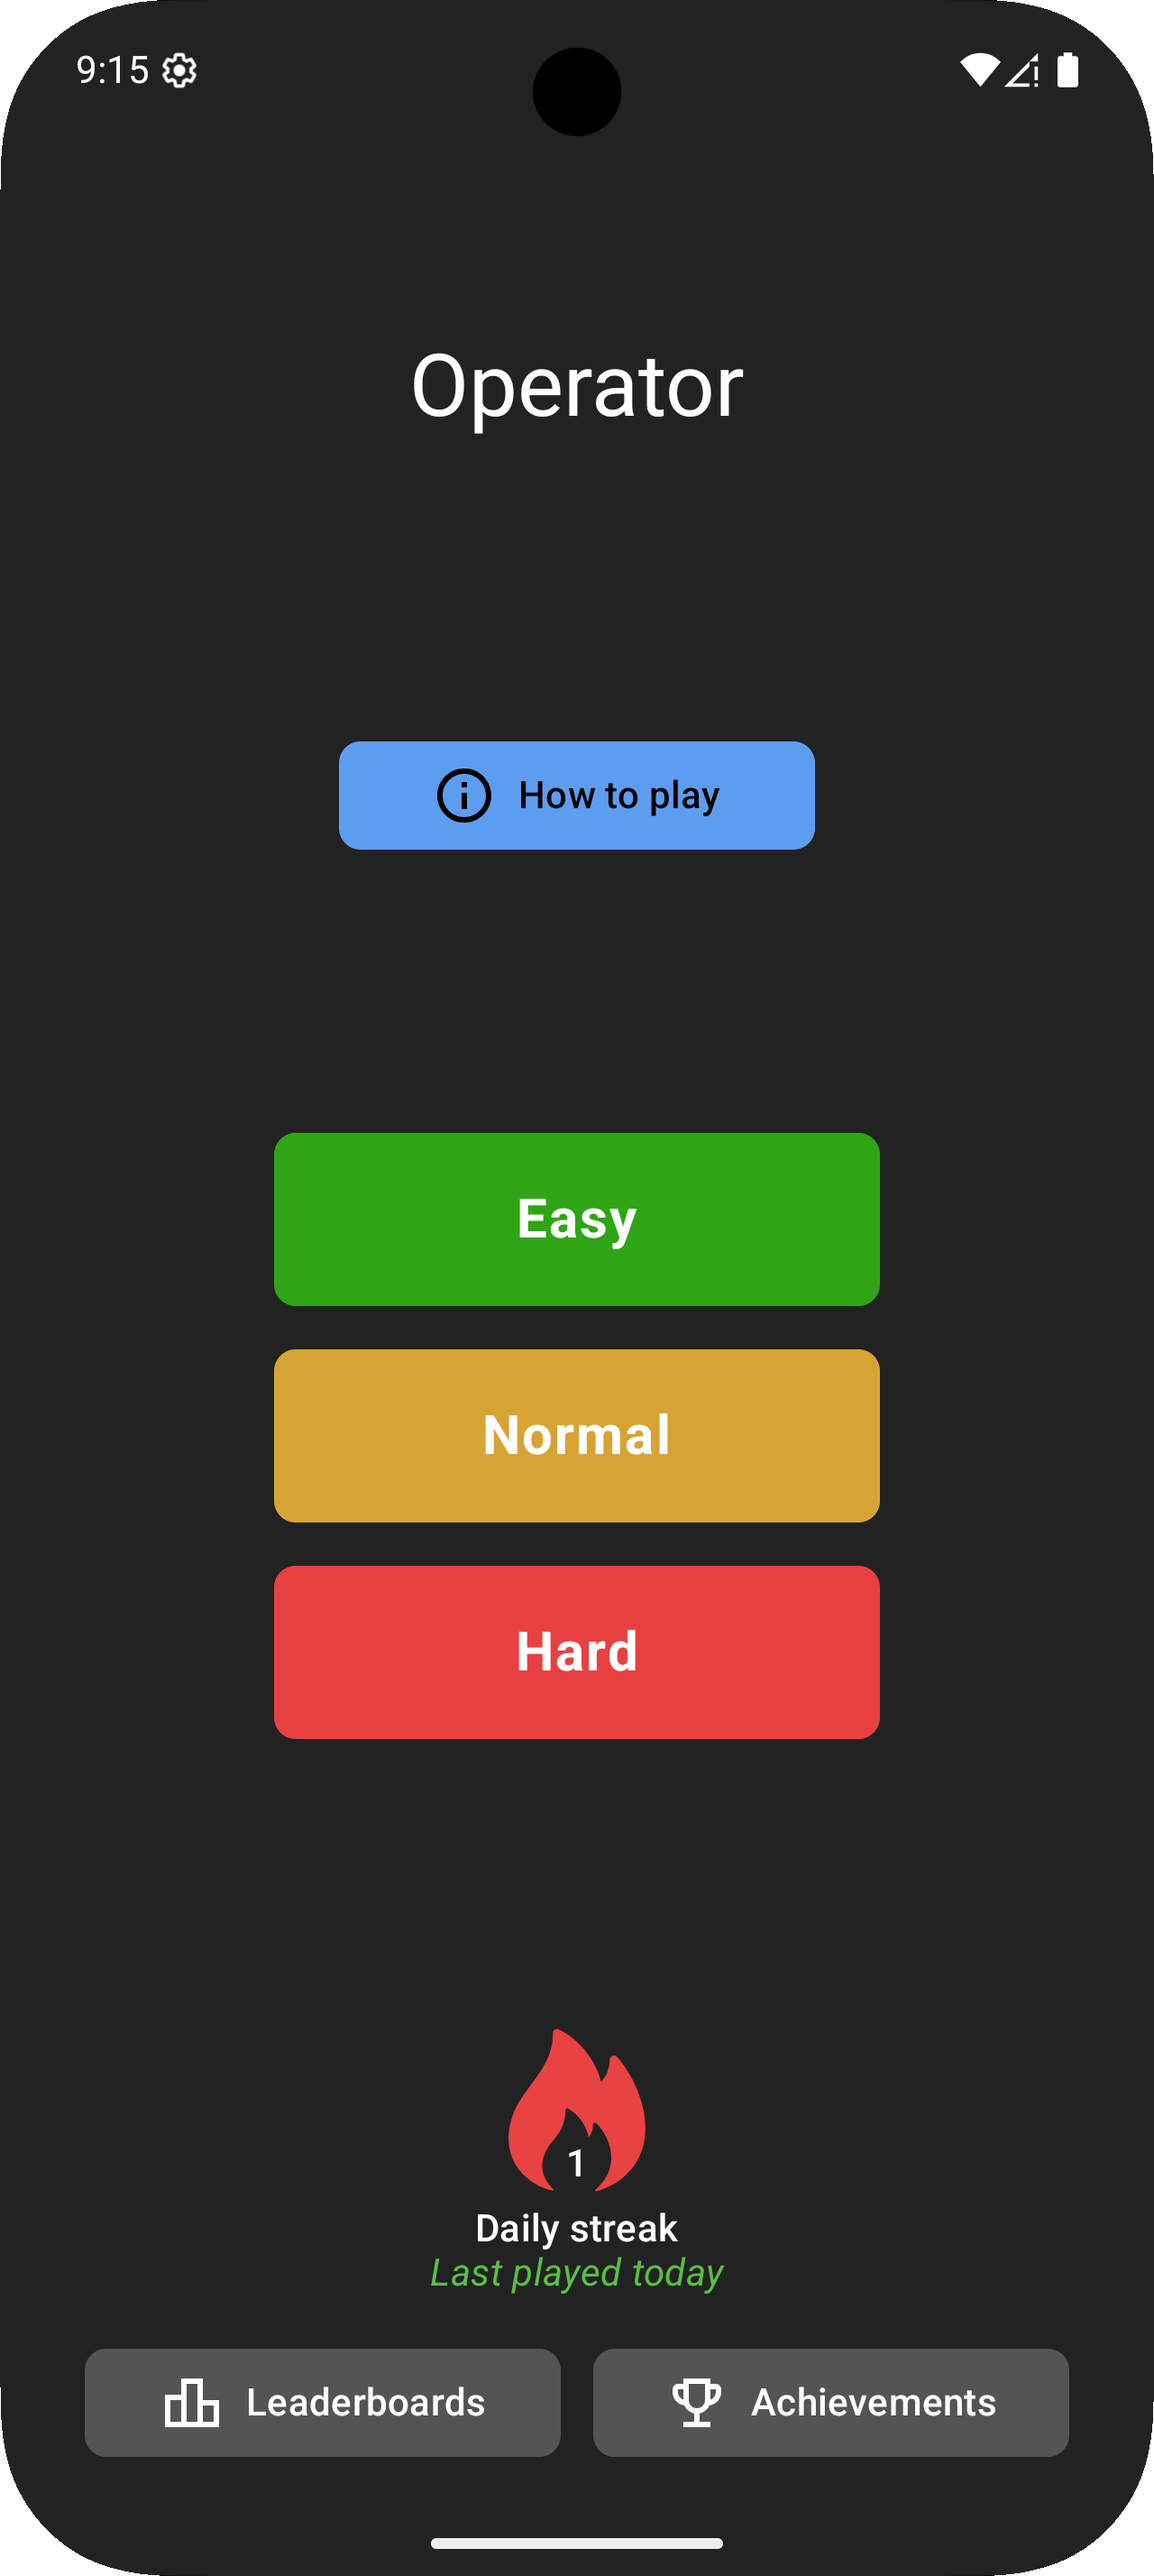
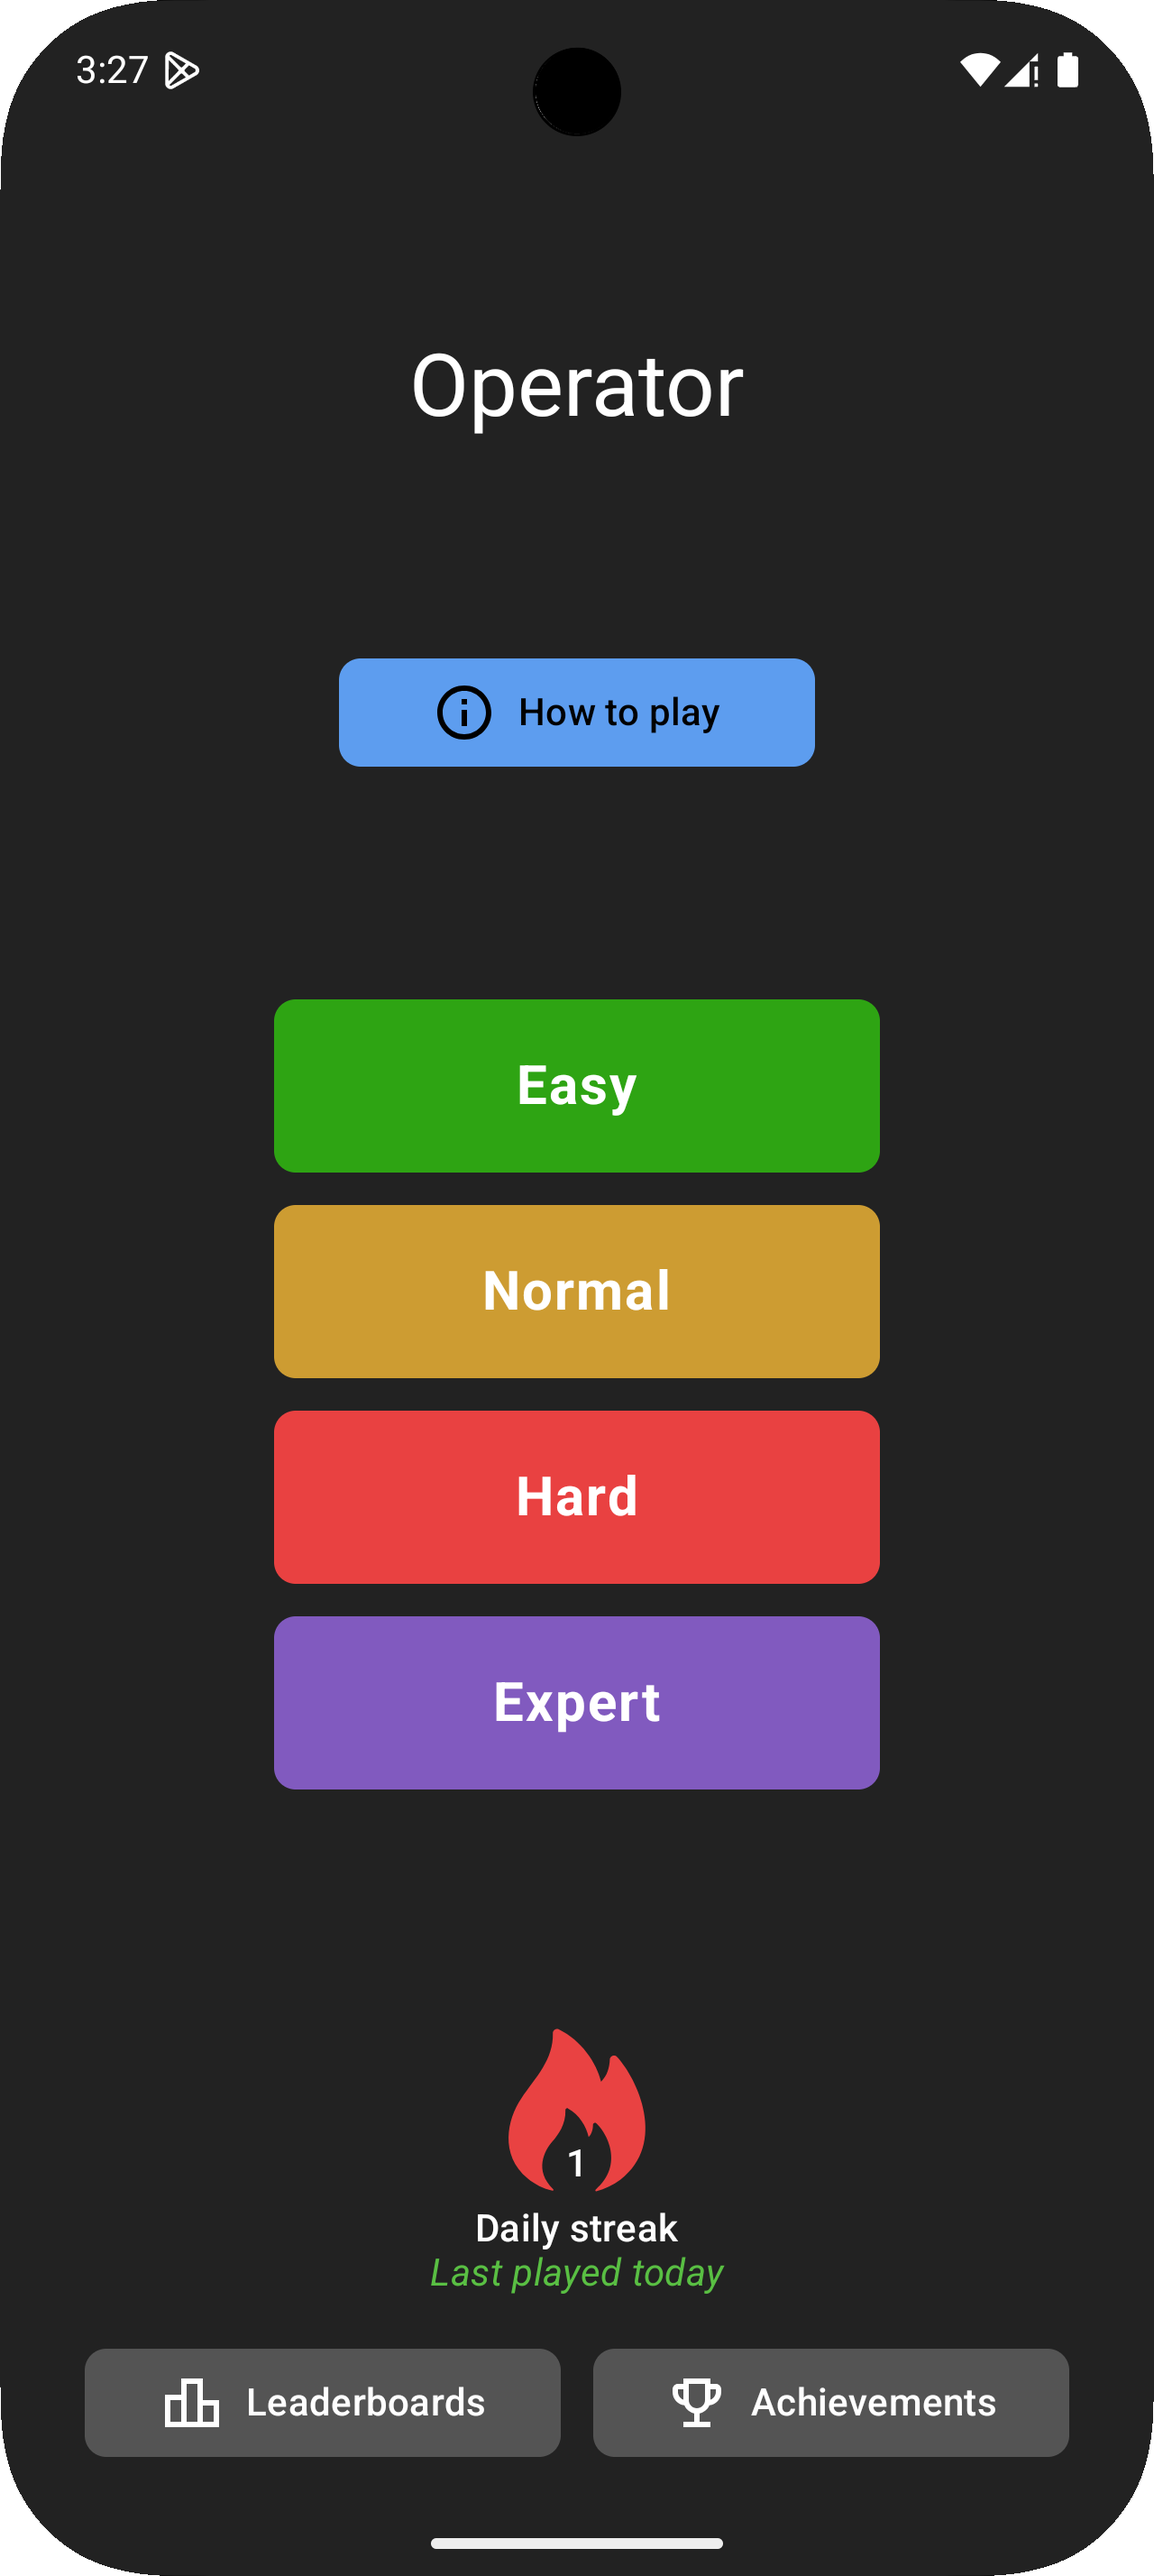
Updated Operator page after adding Expert mode

Changed region(s): [[0.2188, 0.3739, 0.7812, 0.7167], [0.2812, 0.2493, 0.7188, 0.3428], [0.0938, 0.0, 0.1875, 0.0312]]

diff --git a/src/components/operator/Operator.tsx b/src/components/operator/Operator.tsx
@@ -171,7 +171,7 @@ function Operator() {
       <h2>Features</h2>
 
       <ul>
-        <li>Easy, Normal, and Hard starting difficulty modes</li>
+        <li>Easy, Normal, Hard, and Expert difficulty modes</li>
         <li>
           Online leaderboards (using the built-in <i>Game Center</i> on iOS and{" "}
           <i>Play Games Services</i> on Android)
